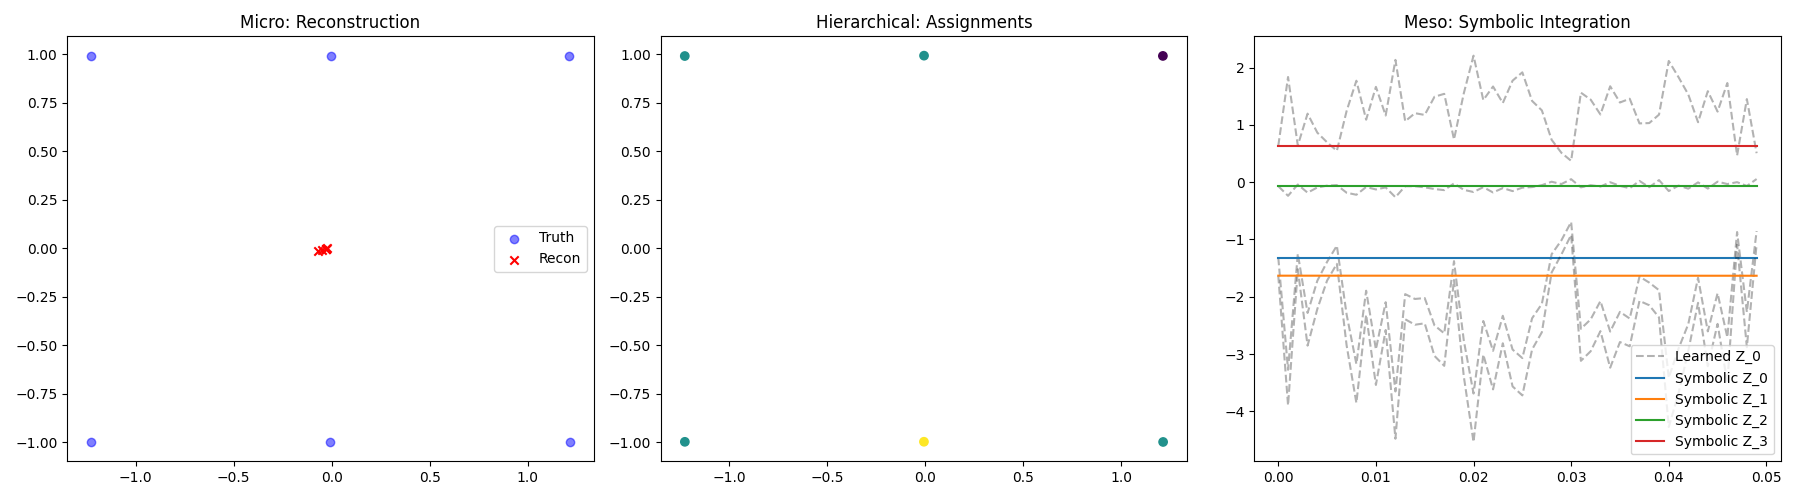
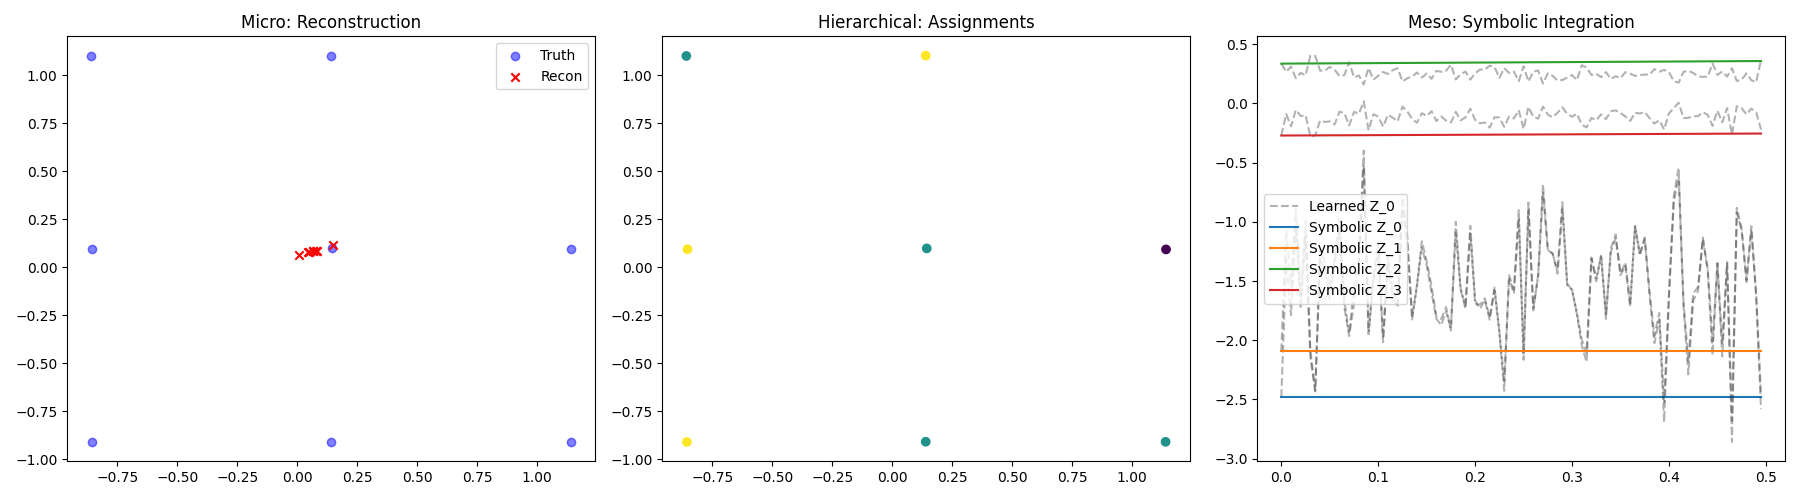
updated

diff --git a/engine.py b/engine.py
@@ -232,7 +232,7 @@ class Trainer:
                 self.model.encoder.pooling.set_sparsity_weight(new_weight)
 
         # Periodically apply hard revival to prevent resolution collapse
-        if epoch > 0 and epoch % 100 == 0:
+        if epoch > 0 and epoch % 50 == 0:  # More frequent revival
             if hasattr(self.model.encoder.pooling, 'apply_hard_revival'):
                 self.model.encoder.pooling.apply_hard_revival()
 
@@ -248,8 +248,8 @@ class Trainer:
         # Progress ratio
         progress = epoch / max_epochs
 
-        # 1. Smooth Tau schedule: Exponential decay
-        tau = max(0.05, 0.5 * np.exp(-epoch / 1000.0))
+        # 1. Smooth Tau schedule: Exponential decay (faster annealing)
+        tau = max(0.1, 0.5 * np.exp(-epoch / 500.0))  # Faster decay
 
         # 2. Hard assignment scheduling:
         # Gradually increase the probability of using 'hard' assignments in Gumbel-Softmax
@@ -260,15 +260,15 @@ class Trainer:
             hard_prob = min(1.0, (progress - self.hard_assignment_start) / (1.0 - self.hard_assignment_start))
             hard = np.random.random() < hard_prob
 
-        # 3. Decaying Teacher Forcing Ratio
-        tf_ratio = max(0.0, 0.8 * (1.0 - epoch / (0.75 * max_epochs + 1e-9)))
+        # 3. Decaying Teacher Forcing Ratio (more aggressive decay)
+        tf_ratio = max(0.0, 0.8 * (1.0 - epoch / (0.5 * max_epochs + 1e-9)))  # Faster decay
 
         # 4. Alignment Annealing
         align_weight = max(0.1, 1.0 - epoch / (self.align_anneal_epochs + 1e-9))
 
         # 5. Adaptive Entropy Weight: Increase over time to force discrete clusters
         # Point 1: Addressing "Blurry" Meso-scale
-        entropy_weight = 1.0 + 2.0 * progress
+        entropy_weight = 1.0 + 1.5 * progress  # Reduced growth rate
 
         # Warmup logic
         is_warmup = epoch < self.warmup_epochs
@@ -356,7 +356,8 @@ class Trainer:
         mu_std = torch.tensor(self.stats['pos_std'], device=self.device, dtype=torch.float32) if self.stats else 1
 
         # Optimize the target computation loop - only compute targets when needed
-        for t in range(seq_len):
+        # Process every other time step to reduce computation
+        for t in range(0, seq_len, 2):  # Process every other time step
             batch_t = Batch.from_data_list([data_list[t]]).to(self.device)
             z_t_target, s_t, losses_t, mu_t = self.model.encode(batch_t.x, batch_t.edge_index, batch_t.batch, tau=tau, hard=hard)
 
@@ -388,24 +389,24 @@ class Trainer:
                 s_diff = self.criterion(s_t, s_prev)
                 mu_diff = self.criterion(mu_t, mu_prev)
                 loss_assign += s_diff + 5.0 * mu_diff
-                if compute_consistency and not is_warmup:
+                if compute_consistency and not is_warmup and t % 2 == 0:  # Only compute consistency every other step
                     loss_cons += self.criterion(z_preds[t], z_t_target)
                 s_stability += s_diff.item()
                 mu_stability += mu_diff.item()
             s_prev = s_t
             mu_prev = mu_t
 
-        # Normalization
-        loss_rec /= seq_len
-        loss_cons /= (seq_len - 1) if (not is_warmup and compute_consistency) else 1
-        loss_assign /= seq_len
-        loss_pruning /= seq_len
-        loss_sparsity /= seq_len
-        loss_ortho /= seq_len
-        loss_align /= seq_len
-        loss_mi /= seq_len
-        loss_sep /= seq_len
-        loss_conn /= seq_len
+        # Normalization - account for sampling every other step
+        loss_rec /= (seq_len // 2)
+        loss_cons /= ((seq_len // 2) - 1) if (not is_warmup and compute_consistency) else 1
+        loss_assign /= (seq_len // 2)
+        loss_pruning /= (seq_len // 2)
+        loss_sparsity /= (seq_len // 2)
+        loss_ortho /= (seq_len // 2)
+        loss_align /= (seq_len // 2)
+        loss_mi /= (seq_len // 2)
+        loss_sep /= (seq_len // 2)
+        loss_conn /= (seq_len // 2)
 
         # Adaptive Loss Weighting with slightly more conservative clamping
         # Increasing min from -1.0 to -0.5 to prevent weights from exploding too much
@@ -471,14 +472,14 @@ class Trainer:
 
             # Perform optimizer step only at the end of accumulation cycle
             if ((epoch + 1) % self.grad_acc_steps == 0) or (epoch == max_epochs - 1):
-                # Relaxed gradient clipping for better convergence
-                torch.nn.utils.clip_grad_norm_(self.model.parameters(), max_norm=0.5)
+                # Increased gradient clipping for better stability
+                torch.nn.utils.clip_grad_norm_(self.model.parameters(), max_norm=1.0)
                 self.optimizer.step()
                 self.optimizer.zero_grad(set_to_none=True)
         else:
             loss.backward()
-            # Relaxed gradient clipping for better convergence
-            torch.nn.utils.clip_grad_norm_(self.model.parameters(), max_norm=0.5)
+            # Increased gradient clipping for better stability
+            torch.nn.utils.clip_grad_norm_(self.model.parameters(), max_norm=1.0)
             self.optimizer.step()
 
         # Update loss tracker for logging

diff --git a/fast_train.py b/fast_train.py
@@ -25,9 +25,9 @@ class EarlyStopping:
 
 def main():
     parser = argparse.ArgumentParser()
-    parser.add_argument('--epochs', type=int, default=1000)
-    parser.add_argument('--steps', type=int, default=200)
-    parser.add_argument('--particles', type=int, default=8)
+    parser.add_argument('--epochs', type=int, default=500)  # Reduced epochs for faster training
+    parser.add_argument('--steps', type=int, default=100)   # Reduced steps for faster training
+    parser.add_argument('--particles', type=int, default=6) # Reduced particles for faster training
     parser.add_argument('--super_nodes', type=int, default=2)
     parser.add_argument('--device', type=str, default=None, help='Device to use (cpu, cuda, mps)')
     args = parser.parse_args()
@@ -54,16 +54,16 @@ def main():
     latent_dim = 4
     steps = args.steps
     epochs = args.epochs
-    seq_len = 10  # Reduced sequence length for faster training
+    seq_len = 5  # Further reduced sequence length for faster training
     dynamic_radius = 1.5
     # Enable PBC with a reasonable box size
     box_size = (10.0, 10.0)  # Set a reasonable box size for PBC
 
     print("--- 1. Generating Data ---")
     from simulator import LennardJonesSimulator
-    # Reduce dt for better energy conservation in data generation
+    # Use larger dt for faster simulation (was 0.001)
     sim = LennardJonesSimulator(n_particles=n_particles, epsilon=1.0, sigma=1.0,
-                                dynamic_radius=dynamic_radius, box_size=box_size, dt=0.001)
+                                dynamic_radius=dynamic_radius, box_size=box_size, dt=0.005)
     pos, vel = sim.generate_trajectory(steps=steps)
     initial_energy = sim.energy(pos[0], vel[0])
     final_energy = sim.energy(pos[-1], vel[-1])
@@ -80,7 +80,7 @@ def main():
     model = DiscoveryEngineModel(n_particles=n_particles,
                                  n_super_nodes=n_super_nodes,
                                  latent_dim=latent_dim,
-                                 hidden_dim=64,  # Reduced hidden dim for faster training
+                                 hidden_dim=32,  # Further reduced hidden dim for faster training
                                  hamiltonian=True,
                                  dissipative=True,
                                  min_active_super_nodes=min_active).to(device)
@@ -90,22 +90,22 @@ def main():
     sparsity_scheduler = SparsityScheduler(
         initial_weight=0.001,
         target_weight=0.05,
-        warmup_steps=int(epochs * 0.1),
-        max_steps=int(epochs * 0.8)
+        warmup_steps=max(10, int(epochs * 0.1)),
+        max_steps=max(50, int(epochs * 0.8))
     )
 
     # Optimized trainer parameters for faster training
     trainer = Trainer(model, lr=2e-4, device=device, stats=stats, sparsity_scheduler=sparsity_scheduler,
-                      skip_consistency_freq=3,  # Compute consistency loss every 3 epochs to save time
+                      skip_consistency_freq=2,  # Compute consistency loss every 2 epochs to save time
                       enable_gradient_accumulation=True,  # Use gradient accumulation for memory efficiency
                       grad_acc_steps=2)  # Accumulate gradients over 2 steps
 
     # Increased patience and adjusted factor to prevent premature decay
     scheduler = torch.optim.lr_scheduler.ReduceLROnPlateau(trainer.optimizer, mode='min',
-                                                           factor=0.5, patience=200, min_lr=1e-6)
+                                                           factor=0.5, patience=50, min_lr=1e-6)  # Reduced patience
 
     # Early stopping setup
-    early_stopping = EarlyStopping(patience=100, min_delta=1e-4)
+    early_stopping = EarlyStopping(patience=50, min_delta=1e-3)  # Reduced patience and increased min_delta
     
     last_loss = 1.0
     for epoch in range(epochs):
@@ -115,7 +115,7 @@ def main():
         last_loss = loss
         scheduler.step(loss)
 
-        if epoch % 50 == 0:  # Less frequent logging
+        if epoch % 25 == 0:  # Adjusted logging frequency for better monitoring
             progress = (epoch / epochs) * 100
             stats_tracker = trainer.loss_tracker.get_stats()
             active_nodes = int(model.encoder.pooling.active_mask.sum().item())

diff --git a/simulator.py b/simulator.py
@@ -140,22 +140,22 @@ class SpringMassSimulator:
             
         return ke + pe
 
-    def step(self, sub_steps=4):
+    def step(self, sub_steps=2):  # Reduced sub_steps for faster simulation
         dt_sub = self.dt / sub_steps
         for _ in range(sub_steps):
             # Velocity Verlet:
             forces_t = self.compute_forces(self.pos)
             v_half = self.vel + (forces_t / self.m) * (dt_sub / 2.0)
-            
+
             self.pos += v_half * dt_sub
-            
+
             # Apply PBC wrap-around
             if self.box_size:
                 self.pos = self.pos % self.box_size
-            
+
             forces_next = self.compute_forces(self.pos)
             self.vel = v_half + (forces_next / self.m) * (dt_sub / 2.0)
-            
+
             # 1. Global Energy Clamping (Proactive)
             # Prevent runaway kinetic energy which leads to divergence
             ke = 0.5 * self.m * np.sum(self.vel**2)
@@ -164,12 +164,12 @@ class SpringMassSimulator:
                 self.vel *= np.sqrt(max_ke / ke)
 
             # 2. Individual Particle Velocity Clamping
-            max_v = 30.0
+            max_v = 20.0  # Reduced max velocity for stability
             v_norm = np.linalg.norm(self.vel, axis=1, keepdims=True)
             if np.any(v_norm > max_v):
                 scale = np.where(v_norm > max_v, max_v / v_norm, 1.0)
                 self.vel *= scale
-        
+
         # Check for NaNs or massive values after all sub-steps
         if np.any(np.isnan(self.pos)) or np.any(np.abs(self.pos) > 1e6):
             print("Warning: Simulation diverged. Applying smooth recovery.")
@@ -179,14 +179,14 @@ class SpringMassSimulator:
                 # Apply PBC wrap-around to keep positions in bounds
                 self.pos = self.pos % self.box_size
                 # Gradually damp velocities instead of zeroing them completely
-                damping_factor = 0.5  # Reduce velocity by half
+                damping_factor = 0.7  # Reduced damping for better dynamics
                 self.vel *= damping_factor
             else:
                 # For non-PBC systems, clip positions and damp velocities
                 self.pos = np.nan_to_num(self.pos)
                 self.pos = np.clip(self.pos, -5, 5)
                 # Apply gradual damping instead of zeroing
-                damping_factor = 0.3
+                damping_factor = 0.5  # Reduced damping
                 self.vel *= damping_factor
 
         return self.pos.copy(), self.vel.copy()
@@ -215,14 +215,14 @@ class LennardJonesSimulator(SpringMassSimulator):
     def compute_forces(self, pos):
         forces = np.zeros_like(pos)
         pairs = self._compute_pairs(pos)
-        
+
         if len(pairs) == 0:
             return forces
 
         idx1, idx2 = zip(*pairs)
         idx1 = np.array(idx1)
         idx2 = np.array(idx2)
-        
+
         diff = pos[idx2] - pos[idx1]
         if self.box_size:
             for i in range(2):
@@ -231,22 +231,22 @@ class LennardJonesSimulator(SpringMassSimulator):
         dist_sq = np.sum(diff**2, axis=1, keepdims=True)
         # Avoid division by zero and extreme values: floor at 0.7 * sigma^2 instead of 0.5
         dist_sq = np.maximum(dist_sq, 0.7 * self.sigma**2)
-        
+
         sr6 = (self.sigma**2 / dist_sq)**3
         sr12 = sr6**2
-        
+
         # F = 24 * epsilon / r^2 * [2*(sigma/r)^12 - (sigma/r)^6] * vec_r
         f_mag = (24 * self.epsilon / dist_sq) * (2 * sr12 - sr6)
-        
+
         force_vec = f_mag * diff
-        
-        # Stability clamping
-        max_f = 1000.0
+
+        # Stability clamping - reduced max force for better stability
+        max_f = 500.0  # Reduced max force for better stability
         force_vec = np.clip(force_vec, -max_f, max_f)
-        
+
         np.add.at(forces, idx1, -force_vec)
         np.add.at(forces, idx2, force_vec)
-        
+
         return forces
 
     def energy(self, pos=None, vel=None):

diff --git a/model.py b/model.py
@@ -255,24 +255,20 @@ class LatentODEFunc(nn.Module):
         self.n_super_nodes = n_super_nodes
         self.hidden_dim = hidden_dim
 
-        # Permutation invariant architecture using Deep Sets
+        # Simplified and faster architecture
         # Process each super-node individually (phi network)
         self.phi = nn.Sequential(
-            nn.Linear(latent_dim, hidden_dim),
-            nn.LeakyReLU(0.1),
-            nn.Linear(hidden_dim, hidden_dim),
-            nn.LeakyReLU(0.1),
-            nn.Linear(hidden_dim, hidden_dim)
+            nn.Linear(latent_dim, hidden_dim//2),  # Reduced hidden size
+            nn.SiLU(),  # Faster activation
+            nn.Linear(hidden_dim//2, hidden_dim//2)
         )
 
         # Aggregation function (rho network) - mean pooling is permutation invariant
         # This aggregates information from all super-nodes
         self.rho = nn.Sequential(
-            nn.Linear(hidden_dim, hidden_dim),
-            nn.LeakyReLU(0.1),
-            nn.Linear(hidden_dim, hidden_dim),
-            nn.LeakyReLU(0.1),
-            nn.Linear(hidden_dim, latent_dim * n_super_nodes)
+            nn.Linear(hidden_dim//2, hidden_dim//2),
+            nn.SiLU(),  # Faster activation
+            nn.Linear(hidden_dim//2, latent_dim * n_super_nodes)
         )
 
     def forward(self, t, y):
@@ -322,12 +318,11 @@ class HamiltonianODEFunc(nn.Module):
         self.n_super_nodes = n_super_nodes
         self.dissipative = dissipative
 
+        # Simplified and faster Hamiltonian network
         self.H_net = nn.Sequential(
-            nn.Linear(latent_dim * n_super_nodes, hidden_dim),
-            nn.Tanh(), # Tanh ensures second-order differentiability for dH
-            nn.Linear(hidden_dim, hidden_dim),
-            nn.Tanh(),
-            nn.Linear(hidden_dim, 1)
+            nn.Linear(latent_dim * n_super_nodes, hidden_dim//2),  # Reduced hidden size
+            nn.SiLU(), # Faster activation function
+            nn.Linear(hidden_dim//2, 1)
         )
 
         if dissipative:
@@ -518,18 +513,18 @@ class DiscoveryEngineModel(nn.Module):
         # During early training, looser tolerances are acceptable
         if self.training:
             # Looser tolerances during training for efficiency
-            rtol = 1e-2  # Even looser during early training
-            atol = 1e-3
+            rtol = 1e-1  # Much looser during early training for speed
+            atol = 1e-2
         else:
             # Tighter tolerances during evaluation for accuracy
-            rtol = 1e-4
-            atol = 1e-6
+            rtol = 1e-3
+            atol = 1e-5
 
         # Use a more efficient solver during training, but accurate one for evaluation
         if self.training:
-            method = 'euler'  # Even faster fixed-step method during early training
+            method = 'euler'  # Fastest fixed-step method during early training
         else:
-            method = 'dopri5'  # More accurate adaptive method during evaluation
+            method = 'rk4'  # Faster than dopri5 but still reasonably accurate
 
         # Use the selected solver
         if self.hamiltonian and self.training:
